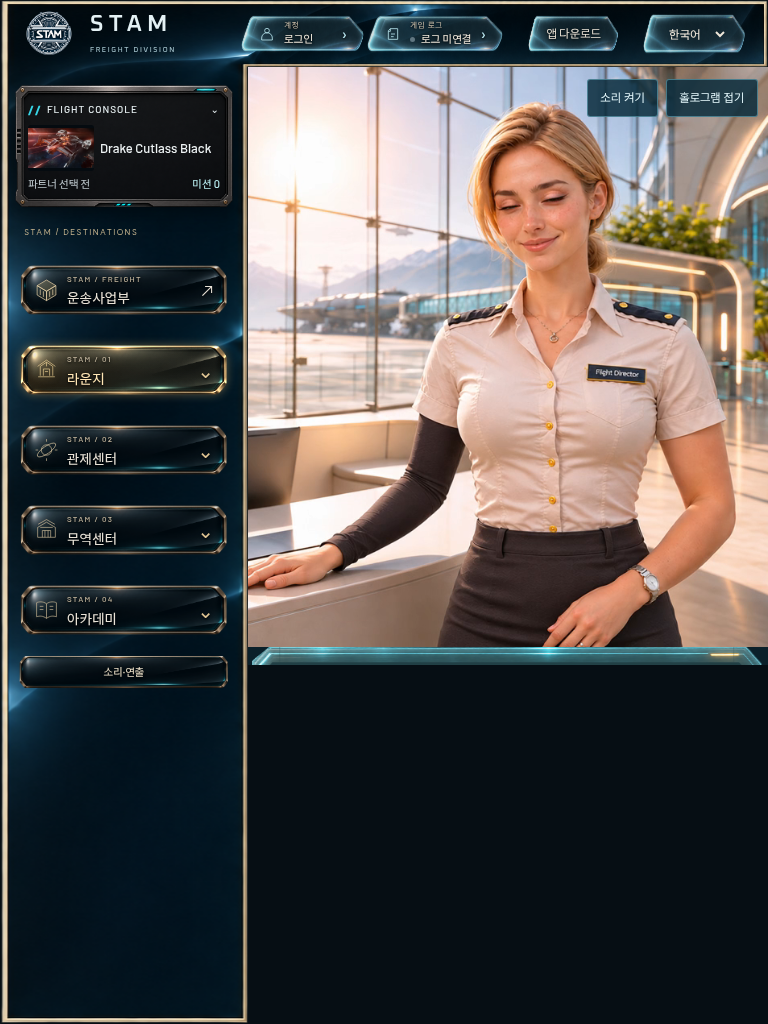
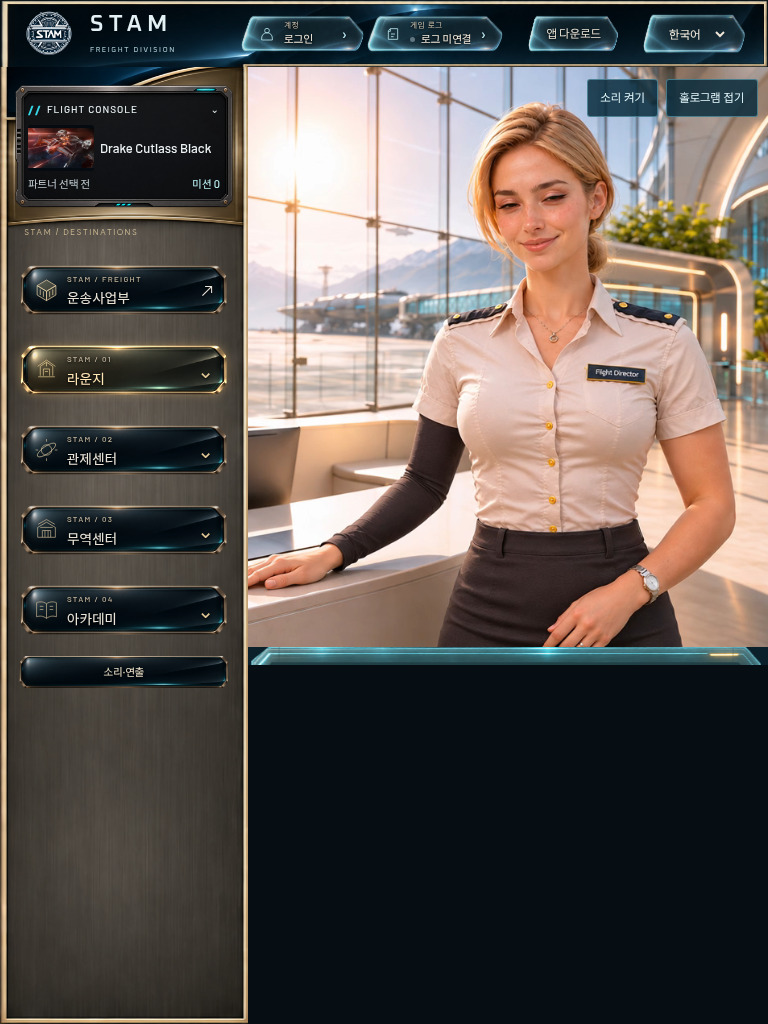
Add raised gold console surround and gunmetal sidebar material

Changed region(s): [[0.0, 0.0625, 0.3438, 1.0], [0.7188, 0.1875, 0.75, 0.2188], [0.6562, 0.1875, 0.6875, 0.2188]]

diff --git a/apps/control-room/src/ShellMaterial.tsx b/apps/control-room/src/ShellMaterial.tsx
@@ -1,19 +1,23 @@
 import material from './assets/navigation/clean-shell-material.png';
+import accent from './assets/navigation/shell-gold-gunmetal.png';
 
 /** A clean material asset, with no baked-in controls or room screenshot.
  * The corner and edge heights stay fixed; the plain strips fill the existing
- * navigation area without setting the dimensions of the live scene. */
+ * navigation area without setting the dimensions of the live scene.
+ * Zone 1 keeps the original glass; zone 2 is a raised gold housing and zone 3
+ * is brushed gunmetal. The curved detail stays inside the sidebar cell. */
 export function ShellMaterial(){
  const pieces=[
-  ['join','0 0 216 102'],
-  ['top','216 0 1314 102'],
-  ['top-end','1530 0 6 102'],
-  ['side','0 102 216 916'],
-  ['side-end','0 1018 216 6'],
+  ['join','0 0 216 102',material],
+  ['top','216 0 1314 102',material],
+  ['top-end','1530 0 6 102',material],
+  ['connector','0 102 216 300',accent],
+  ['side','0 402 216 616',accent],
+  ['side-end','0 1018 216 6',accent],
  ];
  return <div className="shell-material" aria-hidden="true">
-  {pieces.map(([part,viewBox])=><svg key={part} className={`shell-piece shell-${part}`} viewBox={viewBox} preserveAspectRatio="none" focusable="false">
-   <image href={material} x="0" y="0" width="1536" height="1024"/>
+  {pieces.map(([part,viewBox,source])=><svg key={part} className={`shell-piece shell-${part}`} viewBox={viewBox} preserveAspectRatio="none" focusable="false">
+   <image href={source} x="0" y="0" width="1536" height="1024"/>
   </svg>)}
  </div>;
 }

diff --git a/apps/control-room/src/black-gold-shell.css b/apps/control-room/src/black-gold-shell.css
@@ -48,7 +48,8 @@
 .shell-join{left:0;top:0;width:var(--shell-sidebar-width);height:67px}
 .shell-top{left:var(--shell-sidebar-width);right:4px;top:0;width:calc(100% - var(--shell-sidebar-width) - 4px);height:67px}
 .shell-top-end{right:0;top:0;width:4px;height:67px}
-.shell-side{left:0;top:67px;width:var(--shell-sidebar-width);height:calc(100% - 73px)}
+.shell-connector{left:0;top:67px;width:var(--shell-sidebar-width);height:164px}
+.shell-side{left:0;top:231px;width:var(--shell-sidebar-width);height:calc(100% - 237px)}
 .shell-side-end{left:0;bottom:0;width:var(--shell-sidebar-width);height:6px}
 .space-experience>header.space-topbar{position:relative;background:transparent;border:0;box-shadow:none;height:67px;min-height:67px;padding:8px 24px;box-sizing:border-box;gap:28px}
 .space-experience .space-main{grid-template-columns:var(--shell-sidebar-width) minmax(0,1fr)}
@@ -73,7 +74,7 @@
  .space-experience{padding:0;--shell-sidebar-width:clamp(248px,16.4vw,320px)}
  .space-experience .space-sidebar{padding:6px 16px 10px}
  .shell-material{inset:0;mask-image:linear-gradient(to bottom,#000 96px,transparent 132px)}
- .shell-side,.shell-side-end{display:none}
+ .shell-connector,.shell-side,.shell-side-end{display:none}
  .shell-piece{height:120px}
  .shell-join{width:150px}
  .shell-top{left:150px;right:4px;width:calc(100% - 154px)}

diff --git a/docs/cinematics/shell-layout-fix-20261118/HANDOFF.md b/docs/cinematics/shell-layout-fix-20261118/HANDOFF.md
@@ -1,8 +1,16 @@
-# 웹 셸 크기·가이드 영상 위치 복구 / 직각 바 자산
+# 웹 셸 크기·가이드 영상 위치 복구 / 직각 경계·3구역 재질
 
 - 기준: 최신 기능 인계 `1fdce17` (웹 3.3.0, #35/#37/#38 통합 후).
 - 작업 브랜치: `cinematic/shell-layout-fix-20261118`.
 - 기능 담당이 최신 기능 변경을 보존하면서 통합한다. main·공통 인계 직접 병합/배포 없음.
+
+## 최신 디자인 확정 — 상단 유리 / 볼록한 금색 연결부 / 건메탈
+
+사용자 표시의 1번은 기존 청남색 유리 상단바, 2번은 플라이트 콘솔 주변의 황금빛 연결부, 3번은 메뉴 뒤 건메탈로 반영했다. 2번은 얕게 볼록한 금속 면·곡선 베벨·미세한 결·반사광을 가진 별도 생성 자산이며 실제 A 콘솔은 그 앞에 기존 크기로 유지한다. 곡선은 바 내부 장식이고 본문과 맞닿는 경계는 여전히 직각이다.
+
+`clean-shell-material.png`와 상단 3개 source rectangle은 그대로 사용한다. 새 `shell-gold-gunmetal.png`의 금색 연결부만 고정 높이 164px, 아래 건메탈과 끝 테두리는 남는 사이드바 높이에 배치한다. 모바일은 기존 상단만 사용하며 데스크톱 장식을 별도 공간으로 추가하지 않는다. 본문·폰트·버튼·콘솔 크기 및 전환 좌표 변경 없음.
+
+이번 재질 수정 뒤 타입/생산 빌드와 `verify-layout.mjs` 12개 결과를 다시 통과했고 최종 캡처를 갱신했다. 아래 앱175개·루트282/283 결과는 직전 기하 수정 시의 검사이며 이번 재질 교체만으로 전체 검사를 반복하지 않았다.
 
 ## 문제와 수정
 
@@ -17,7 +25,7 @@
 ## 변경 파일
 
 - `apps/control-room/src/ShellMaterial.tsx`: 예전 비교 시안 마스크 대신 새 직각 재질의 구간 렌더링.
-- `apps/control-room/src/assets/navigation/clean-shell-material.png`: 신규 자산. 생성 원본은 별도 제작 폴더에 보존.
+- `apps/control-room/src/assets/navigation/clean-shell-material.png`, `shell-gold-gunmetal.png`: 바 전용 자산. 생성 원본은 별도 제작 폴더에 보존.
 - `apps/control-room/src/black-gold-shell.css`: 본문 이전 위치 복구, 바 영역 분리, 가이드 동일 셀 및 작은 화면 전환 기하 보정.
 - `apps/control-room/src/SpaceExperience.tsx`: 안내데스크에서 사이드바를 제거하던 조건만 제거. 공유 파일 전체 교체 금지.
 - 이 문서, `verify-layout.mjs`, `review/`, `assets/provenance.json`, `PROJECT_STATUS.md`.

diff --git a/PROJECT_STATUS.md b/PROJECT_STATUS.md
@@ -1,3 +1,7 @@
+## 2026-11-18 연출 — 바 재질 3구역 후속 / PR #42 미배포
+
+같은 `cinematic/shell-layout-fix-20261118`에서 사용자 표시 1번 상단 유리는 원본 유지, 2번 콘솔 주변은 얕게 볼록한 황금빛 하우징/곡선 베벨, 3번 메뉴 영역은 건메탈로 수정했다. 새 생성 자산을 구간별로 사용하며 본문 직각 경계·복구한 좌표·기존 A콘솔/D버튼/폰트는 유지. 타입·생산 빌드 및 화면6크기/왕복/뒤로/사이드바/동작줄이기 12개 결과 재확인. 기존 전체검사 기록(앱175 통과, 루트282/283·한국어자료1실패)은 인계에 구분해 유지. 최종 캡처/출처: `docs/cinematics/shell-layout-fix-20261118/`. 기능 변경·병합·배포 없음.
+
 ## 2026-11-18 연출 — 원래 본문 위치 복구·직각 바 자산 / 미배포
 
 기준 `1fdce17`, 별도 `cinematic/shell-layout-fix-20261118`. 비교 시안 전체 확대를 제거하고 글자 없는 직각 검은 유리/금색 바 자산을 생성했다. 본문은 원래 상단67px·사이드 clamp(248px,16.4vw,320px) 기준, 추가 여백 없음으로 복구. 가이드 접근/복귀에서도 사이드바와 장면 좌표를 유지한다. 기존 D 버튼·A 콘솔·폰트·기능/데이터/앱1.5.1 보존.
